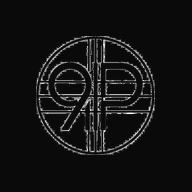
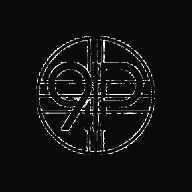
Add files via upload

Changed region(s): [[0.1875, 0.1875, 0.8125, 0.8125]]

diff --git a/components/LeftNav.jsx b/components/LeftNav.jsx
@@ -32,7 +32,7 @@ const CATEGORY_ICONS = {
   "photography-art": "📸",
 };
 
-// Fix #4: active state uses neutral-800 bg + neutral-100 text instead of pure white bg
+// Active: neutral-700 bg, neutral-100 text. Matches softer theme.
 function NavItem({ href, icon, label, active }) {
   return (
     <Link
@@ -43,28 +43,33 @@ function NavItem({ href, icon, label, active }) {
           : "text-neutral-500 hover:bg-neutral-800/80 hover:text-neutral-300"
       }`}
     >
-      <span className="text-base">{icon}</span>
-      {label}
+      <span className="text-base leading-none">{icon}</span>
+      <span className="leading-none">{label}</span>
     </Link>
   );
 }
 
-// Fix #2: collapsible section component
+// Collapsible section — children always mounted so Firestore loads immediately
 function CollapsibleSection({ title, children, defaultOpen = false }) {
   const [open, setOpen] = useState(defaultOpen);
   return (
     <div>
       <button
         onClick={() => setOpen((v) => !v)}
-        className="flex w-full items-center justify-between px-1 py-1.5 text-xs font-bold uppercase tracking-widest text-neutral-600 hover:text-neutral-400 transition mb-0.5"
+        className="flex w-full items-center justify-between rounded-xl px-3 py-2 text-xs font-bold uppercase tracking-widest text-neutral-600 hover:text-neutral-400 hover:bg-neutral-800/50 transition"
       >
         {title}
-        {open
-          ? <ChevronUp className="h-3 w-3" />
-          : <ChevronDown className="h-3 w-3" />
-        }
+        {open ? <ChevronUp className="h-3 w-3 shrink-0" /> : <ChevronDown className="h-3 w-3 shrink-0" />}
       </button>
-      {open && <div className="space-y-0.5">{children}</div>}
+
+      {/* 
+        KEY FIX: children are always mounted (not conditional on open)
+        This means listenCategories fires immediately on page load
+        We only toggle visibility with CSS
+      */}
+      <div className={`space-y-0.5 mt-0.5 overflow-hidden transition-all duration-200 ${open ? "max-h-[600px] opacity-100" : "max-h-0 opacity-0"}`}>
+        {children}
+      </div>
     </div>
   );
 }
@@ -74,6 +79,7 @@ export default function LeftNav() {
   const [categories, setCategories] = useState([]);
   const [catLoading, setCatLoading] = useState(true);
 
+  // Load categories on mount — always, regardless of dropdown state
   useEffect(() => {
     let unsub = null;
     (async () => {
@@ -91,14 +97,15 @@ export default function LeftNav() {
     return () => { try { unsub?.(); } catch {} };
   }, []);
 
-  const topCats = useMemo(() => categories.slice(0, 14), [categories]);
+  // Show ALL categories in the dropdown (not just top 10)
+  const allCats = useMemo(() => categories, [categories]);
 
   return (
-    <div className="space-y-3 pb-8">
+    <div className="space-y-2 pb-8">
 
-      {/* EXPLORE — always visible, no dropdown needed */}
-      <div className="card p-3">
-        <div className="section-title">Explore</div>
+      {/* EXPLORE — always expanded, no toggle needed */}
+      <div className="card p-2">
+        <p className="section-title px-3 pt-1">Explore</p>
         <div className="space-y-0.5">
           <NavItem href="/" icon="🏠" label="Home" active={pathname === "/"} />
           <NavItem href="/?feed=trending" icon="🔥" label="Trending" active={false} />
@@ -106,18 +113,20 @@ export default function LeftNav() {
         </div>
       </div>
 
-      {/* CATEGORIES — Fix #2: collapsible dropdown */}
-      <div className="card p-3">
+      {/* CATEGORIES — collapsible, full list */}
+      <div className="card p-2">
         <CollapsibleSection title="Categories" defaultOpen={false}>
           {catLoading ? (
-            <div className="space-y-1.5 mt-1">
-              {[...Array(5)].map((_, i) => (
+            <div className="space-y-1 px-1 py-1">
+              {[...Array(8)].map((_, i) => (
                 <div key={i} className="h-8 rounded-xl bg-neutral-800 animate-pulse" />
               ))}
             </div>
+          ) : allCats.length === 0 ? (
+            <div className="px-3 py-2 text-xs text-neutral-600">No categories yet.</div>
           ) : (
             <>
-              {topCats.map((c) => (
+              {allCats.map((c) => (
                 <NavItem
                   key={c.id}
                   href={`/c/${c.slug}`}
@@ -126,39 +135,41 @@ export default function LeftNav() {
                   active={pathname === `/c/${c.slug}`}
                 />
               ))}
-              <Link
-                href="/categories"
-                className="flex items-center gap-2.5 rounded-xl px-3 py-1.5 text-xs text-neutral-600 hover:text-neutral-400 transition"
-              >
-                <span>↗</span> View all categories
-              </Link>
+              <div className="border-t border-neutral-800 mt-1 pt-1">
+                <Link
+                  href="/categories"
+                  className="flex items-center gap-2.5 rounded-xl px-3 py-1.5 text-xs text-neutral-600 hover:text-neutral-400 transition"
+                >
+                  ↗ View all categories page
+                </Link>
+              </div>
             </>
           )}
         </CollapsibleSection>
       </div>
 
-      {/* MY ACTIVITY — Fix #2: collapsible dropdown */}
-      <div className="card p-3">
+      {/* MY ACTIVITY — collapsible */}
+      <div className="card p-2">
         <CollapsibleSection title="My Activity" defaultOpen={false}>
-          <NavItem href="/profile?tab=liked" icon="👍" label="Most Liked" active={false} />
-          <NavItem href="/profile?tab=commented" icon="💬" label="Commented" active={false} />
-          <NavItem href="/profile?tab=saved" icon="🔖" label="Saved" active={false} />
-          <NavItem href="/profile?tab=viewed" icon="👀" label="Viewed" active={false} />
+          <NavItem href="/profile?tab=liked"     icon="👍" label="Most Liked" active={false} />
+          <NavItem href="/profile?tab=commented" icon="💬" label="Commented"  active={false} />
+          <NavItem href="/profile?tab=saved"     icon="🔖" label="Saved"      active={false} />
+          <NavItem href="/profile?tab=viewed"    icon="👀" label="Viewed"     active={false} />
         </CollapsibleSection>
       </div>
 
       {/* NINEPLANS LEGAL */}
-      <div className="card p-3">
-        <div className="section-title">NinePlans</div>
+      <div className="card p-2">
+        <p className="section-title px-3 pt-1">NinePlans</p>
         <div className="space-y-0.5">
-          <NavItem href="/rules" icon="📋" label="Rules" active={pathname === "/rules"} />
-          <NavItem href="/policy" icon="🛡" label="Policy" active={pathname === "/policy"} />
-          <NavItem href="/faq" icon="❓" label="FAQ" active={pathname === "/faq"} />
-          <NavItem href="/terms" icon="📜" label="Terms" active={pathname === "/terms"} />
+          <NavItem href="/rules"   icon="📋" label="Rules"   active={pathname === "/rules"} />
+          <NavItem href="/policy"  icon="🛡" label="Policy"  active={pathname === "/policy"} />
+          <NavItem href="/faq"     icon="❓" label="FAQ"     active={pathname === "/faq"} />
+          <NavItem href="/terms"   icon="📜" label="Terms"   active={pathname === "/terms"} />
           <NavItem href="/privacy" icon="🔒" label="Privacy" active={pathname === "/privacy"} />
           <NavItem href="/contact" icon="✉" label="Contact" active={pathname === "/contact"} />
         </div>
-        <div className="mt-3 pt-3 border-t border-neutral-800 text-xs text-neutral-700 text-center">
+        <div className="mt-2 pt-2 border-t border-neutral-800 text-[10px] text-neutral-700 text-center pb-1">
           © {new Date().getFullYear()} NinePlans™
         </div>
       </div>

diff --git a/components/Logo.jsx b/components/Logo.jsx
@@ -7,29 +7,37 @@ import Link from "next/link";
 export default function Logo() {
   return (
     <Link href="/" className="flex items-center gap-2.5 shrink-0">
-      {/* Mobile: mark only */}
+      {/*
+        logo.png = your 9P mark on a light circle (#e5e5e5 bg, dark marks)
+        This is ALWAYS clearly visible on the dark website header at any size
+        We use this for both mobile and desktop — just different sizes
+      */}
+
+      {/* Mobile: 32px logo only, no text */}
       <span className="inline-flex md:hidden">
         <Image
-          src="/logo-mark.png"
+          src="/logo.png"
           alt="NinePlans"
-          width={34}
-          height={34}
+          width={32}
+          height={32}
+          className="rounded-full"
           priority
         />
       </span>
 
-      {/* Desktop: full logo + light text */}
+      {/* Desktop: 36px logo + light text */}
       <span className="hidden md:inline-flex items-center gap-2">
         <Image
-          src="/logo-full.png"
+          src="/logo.png"
           alt="NinePlans"
-          width={38}
-          height={38}
+          width={36}
+          height={36}
+          className="rounded-full"
           priority
         />
-        {/* Fix #3: light font weight, not bold */}
+        {/* Light font — not bold, clean */}
         <span className="text-[15px] font-light tracking-wide text-neutral-300">
-          Nine<span className="font-normal text-neutral-200">Plans</span>
+          Nine<span className="font-normal text-neutral-100">Plans</span>
         </span>
       </span>
     </Link>
